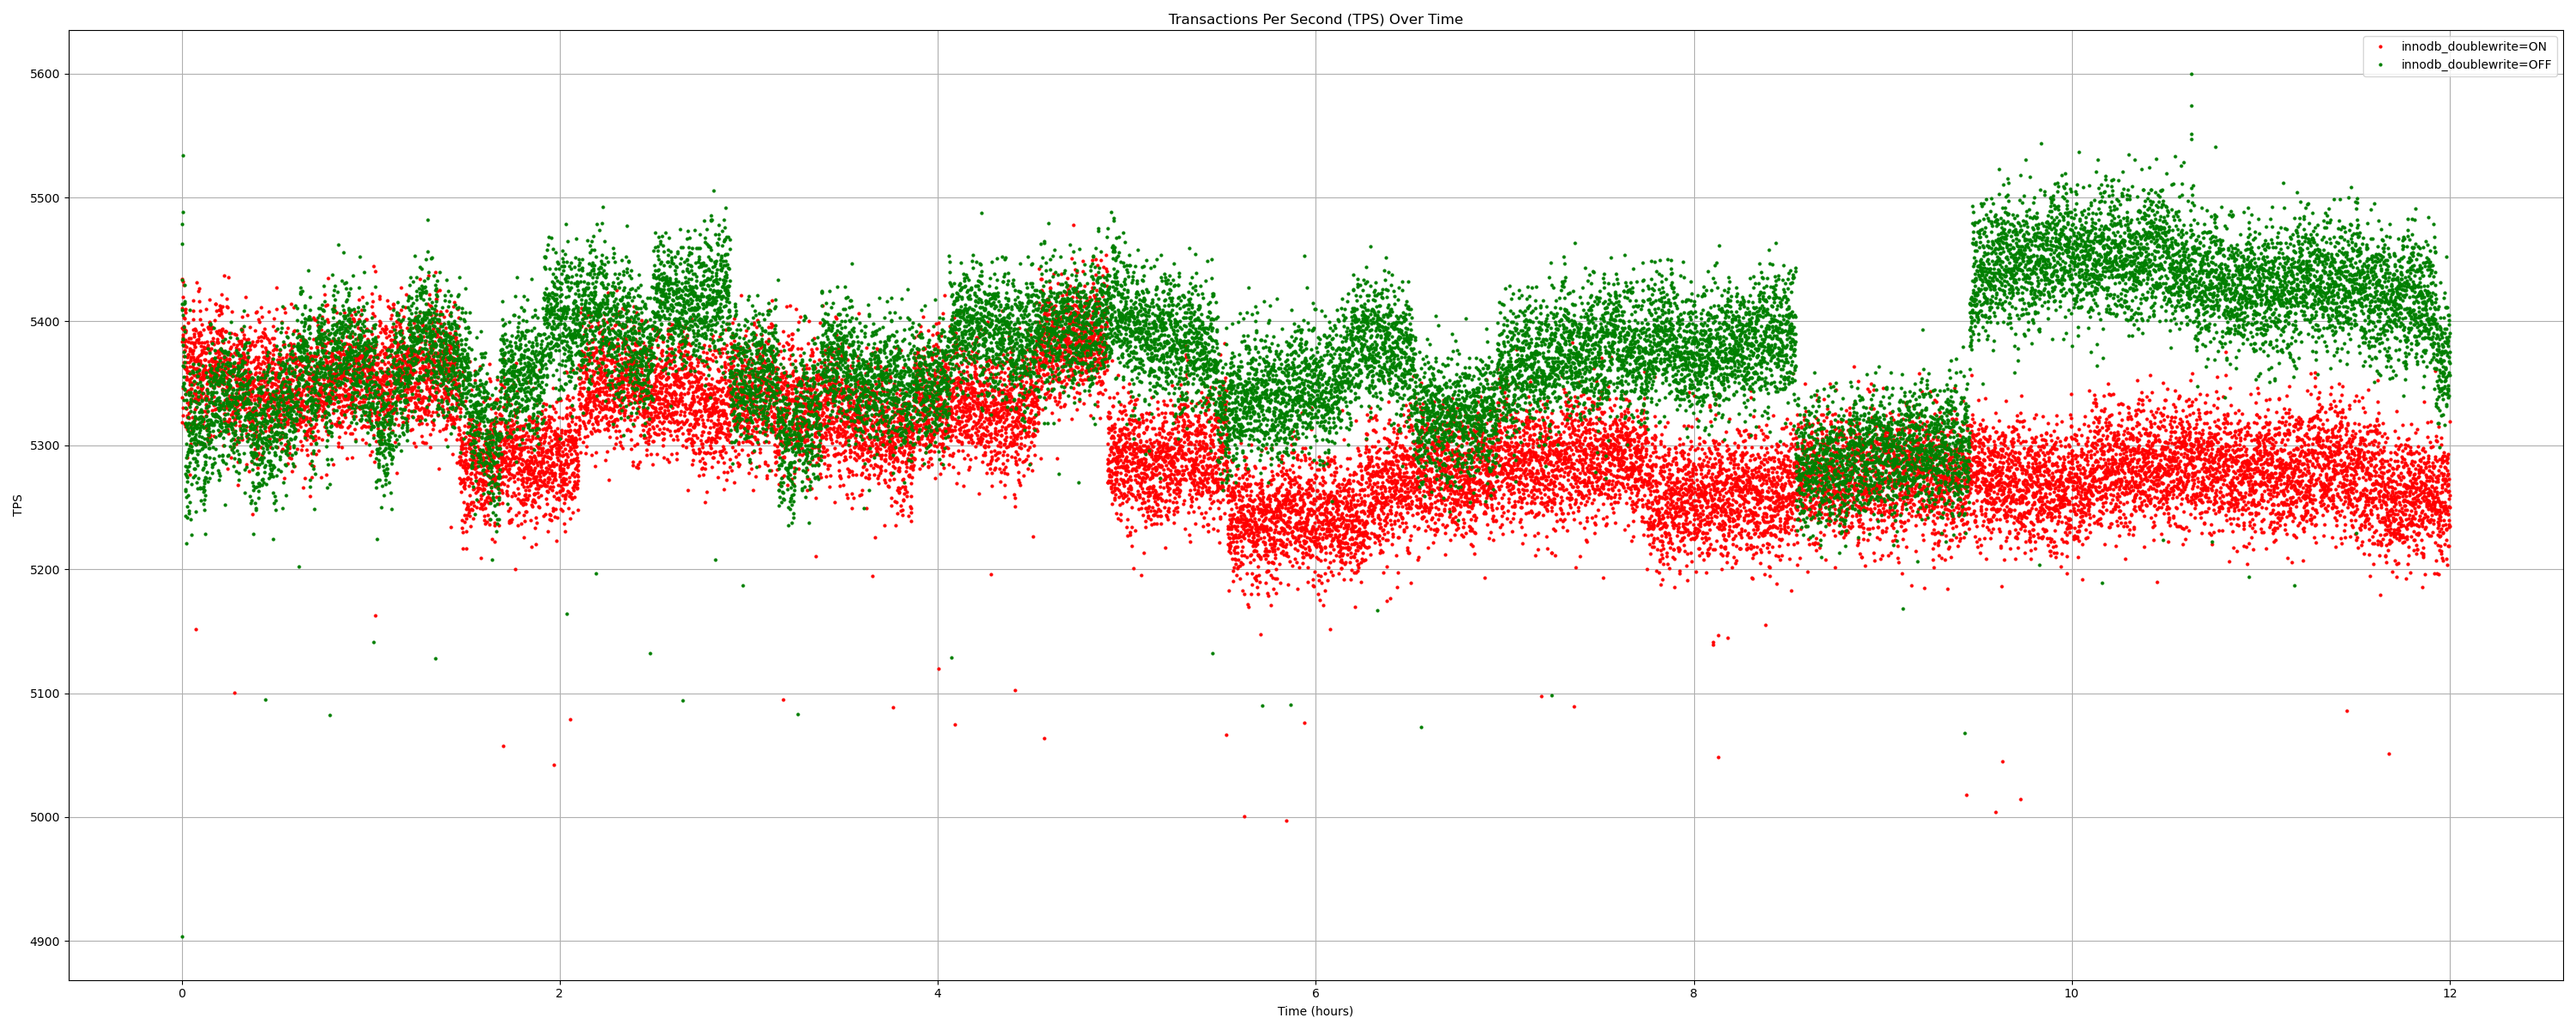
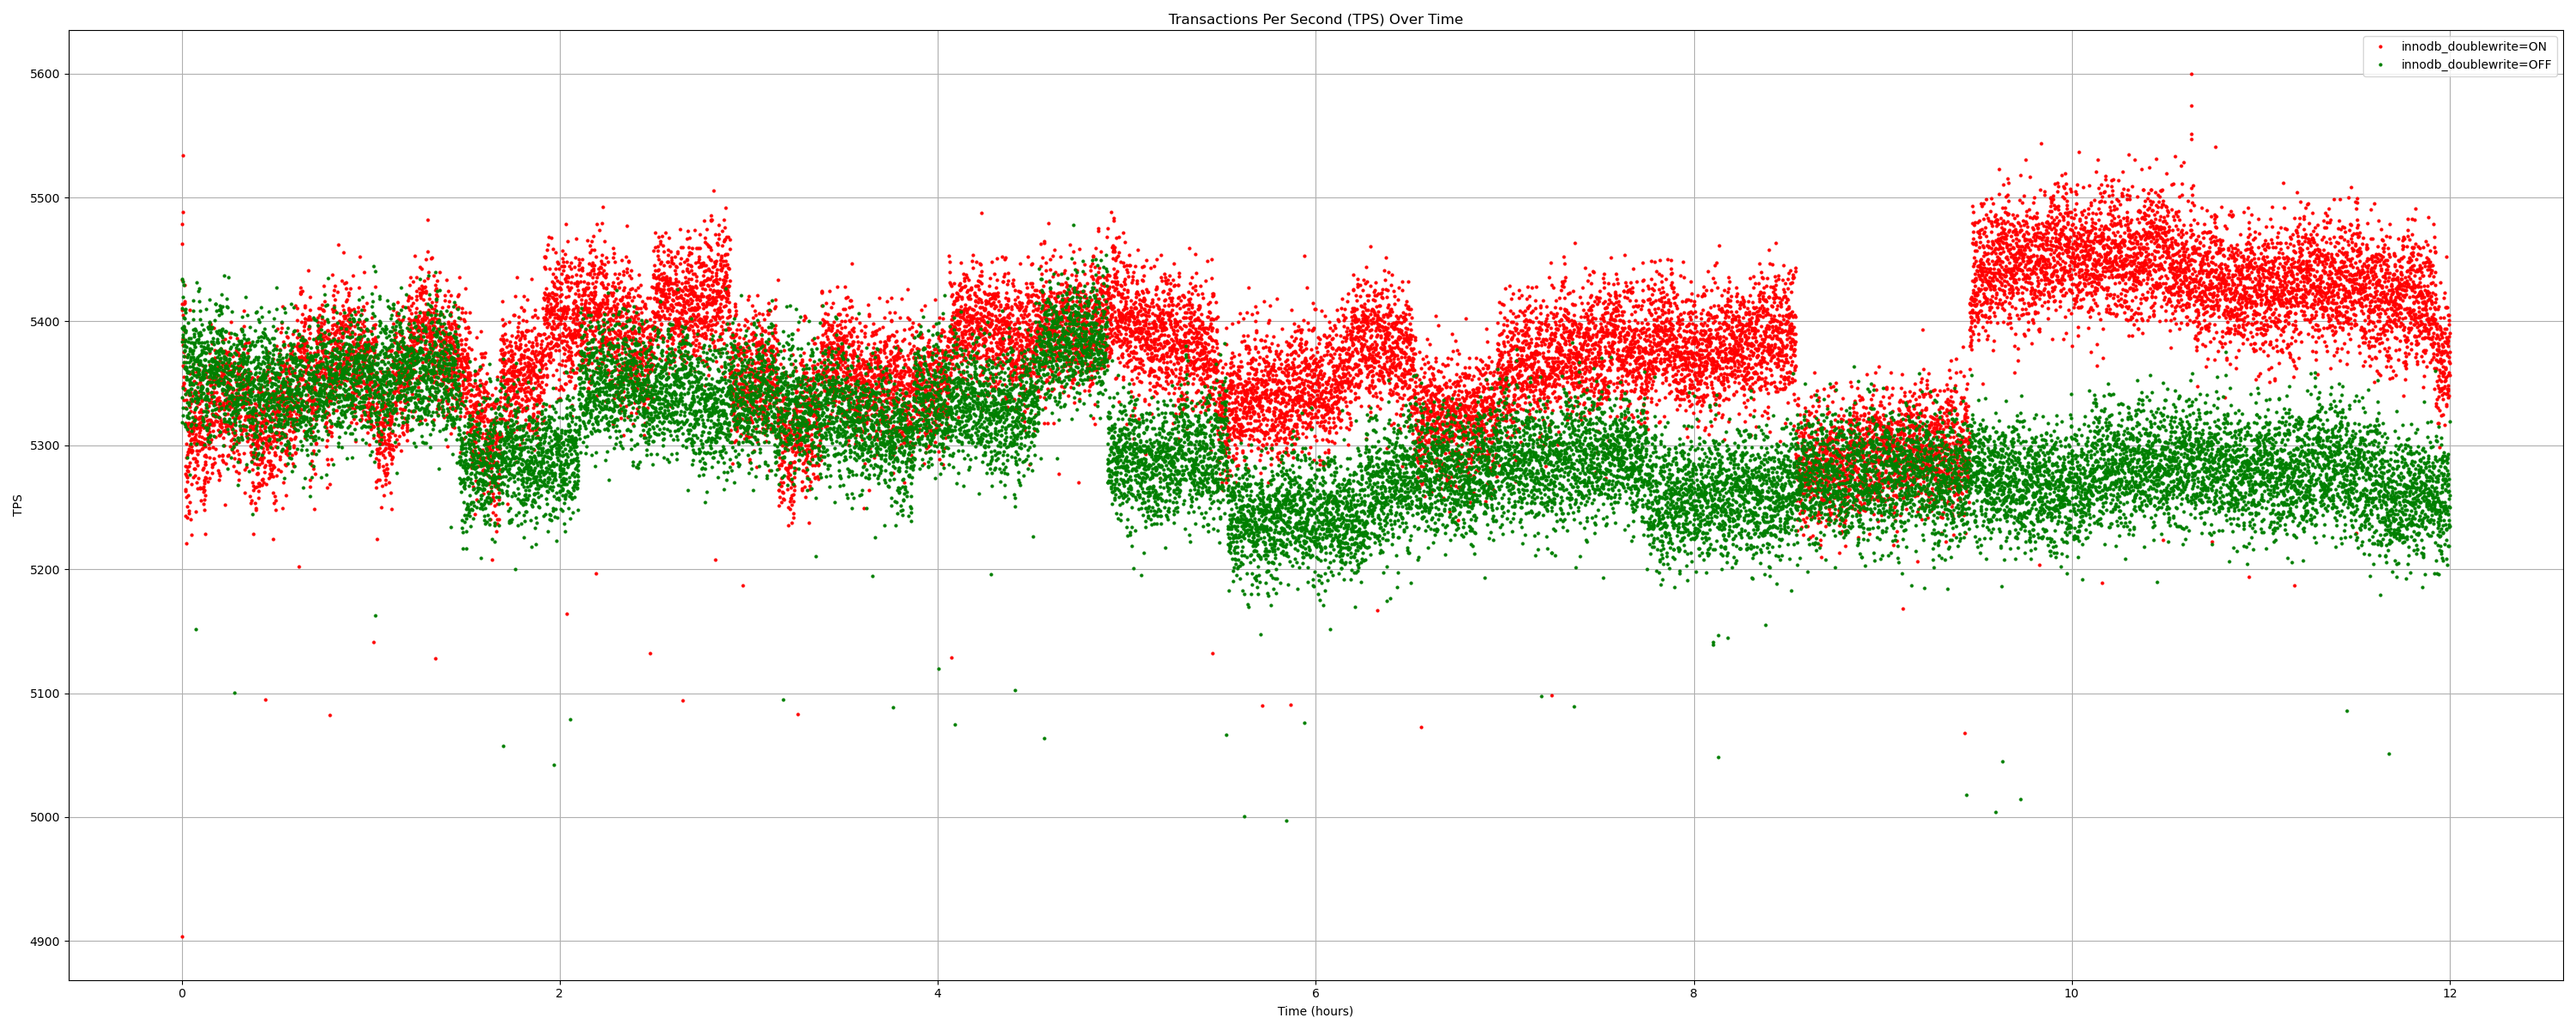
compare-sysbench.py: invert which plot is which
We had these backwards.

Changed region(s): [[0.062, 0.1542, 0.961, 0.5858]]

diff --git a/compare-sysbench.py b/compare-sysbench.py
@@ -47,8 +47,8 @@ df2 = pd.DataFrame(tps_data_2, columns=[time_label, 'TPS'])
 # Plot the TPS values
 plt.figure(figsize=(30, 12))
 
-plt.plot(df2[time_label], df2['TPS'], 'ro', markersize=2, label='innodb_doublewrite=ON')
-plt.plot(df1[time_label], df1['TPS'], 'go', markersize=2, label='innodb_doublewrite=OFF')
+plt.plot(df1[time_label], df1['TPS'], 'ro', markersize=2, label='innodb_doublewrite=ON')
+plt.plot(df2[time_label], df2['TPS'], 'go', markersize=2, label='innodb_doublewrite=OFF')
 
 plt.title('Transactions Per Second (TPS) Over Time')
 plt.xlabel(time_label)
